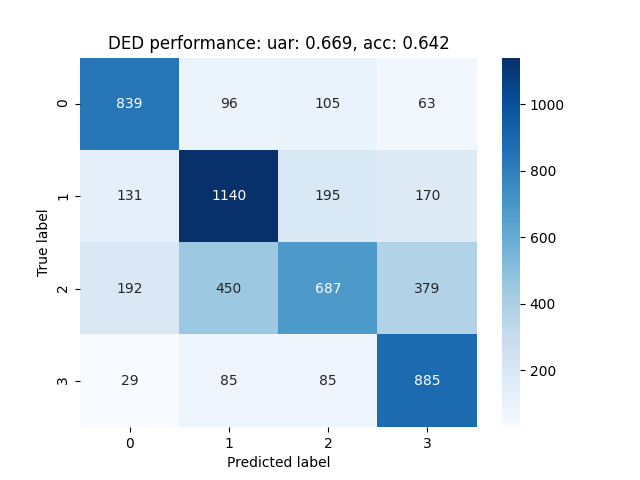
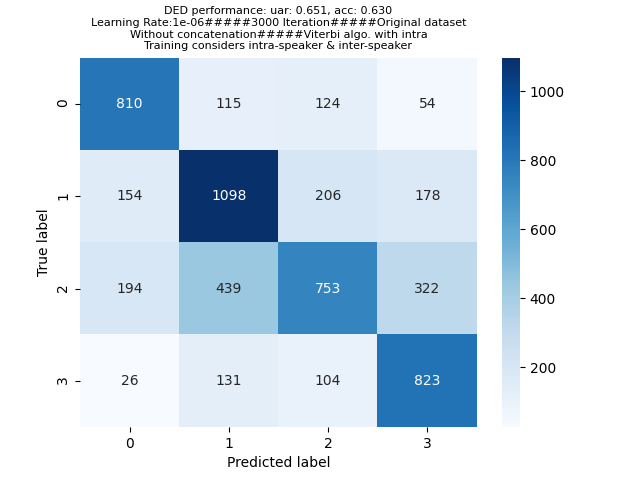
edit diagram title

diff --git a/CRF_train.py b/CRF_train.py
@@ -433,15 +433,15 @@ def test_acc(S1_Weight, S2_Weight, S3_Weight, S4_Weight, S5_Weight):
         elif Session_num == 'Ses05':
             W = S5_Weight
         
-        if concatenate_or_not == 1:
+        if args.concatenation == 1:
             concat_dialog = dialogs[dia] + dialogs[dia]
         else:
             concat_dialog = dialogs[dia]
         
         if args.inter_intra_test == 'inter':
-            predict += CRF_test.viterbi_inter(W, concat_dialog, no_speaker_info_emo_trans_prob_dict[Session_num], inter_emo_trans_prob_dict[Session_num], intra_emo_trans_prob_dict[Session_num], out_dict, concatenate_or_not, args.speaker_info_train)
+            predict += CRF_test.viterbi_inter(W, concat_dialog, no_speaker_info_emo_trans_prob_dict[Session_num], inter_emo_trans_prob_dict[Session_num], intra_emo_trans_prob_dict[Session_num], out_dict, args.concatenation, args.speaker_info_train)
         elif args.inter_intra_test == 'intra':
-            predict += CRF_test.viterbi_intra(W, concat_dialog, no_speaker_info_emo_trans_prob_dict[Session_num], intra_emo_trans_prob_dict[Session_num], out_dict, concatenate_or_not, args.speaker_info_train)
+            predict += CRF_test.viterbi_intra(W, concat_dialog, no_speaker_info_emo_trans_prob_dict[Session_num], intra_emo_trans_prob_dict[Session_num], out_dict, args.concatenation, args.speaker_info_train)
     
     uar, acc, conf = utils.evaluate(predict, label)
     print('DED performance: uar: %.3f, acc: %.3f' % (uar, acc))
@@ -489,7 +489,8 @@ def plot_dynamic_line_chart(uars, accs, Iter, iteration, uar ,acc):
         plt.legend(loc = 'upper left')
         plt.xlabel('Training Iteration')
         plt.ylabel('Probability')
-        plt.title('Learning Rate:' + str(learning_rate) + '\n' + str(iteration) + ' Iteration\n' + args.dataset + ' dataset')
+        
+        plt.title(diagram_title, fontsize=10)
     plt.pause(0.0001)
 
 if __name__ == "__main__":
@@ -503,10 +504,19 @@ if __name__ == "__main__":
     parser.add_argument("-s", "--speaker_info_train", type=int, help="When estimating emotion transition probabilities, do you want to consider speakers information?\n\t0:not consider speaker info\n\t1:consider intra-speaker only\n\t2:consider intra-speaker & inter-speaker", default = 2)
 
     args = parser.parse_args()
-
-    iteration = args.iteration
-    learning_rate = args.learning_rate
-    concatenate_or_not = args.concatenation
+    diagram_title = 'Learning Rate:' + str(args.learning_rate) + '#####' + str(args.iteration) + ' Iteration#####' + args.dataset + ' dataset\n'
+    if args.concatenation == 1:
+        diagram_title += 'With concatenation#####'
+    else:
+        diagram_title += 'Without concatenation#####'
+    diagram_title += 'Viterbi algo. with '
+    diagram_title += args.inter_intra_test
+    if args.speaker_info_train == 0:
+        diagram_title += '\nTraining does not consider speaker info'
+    elif args.speaker_info_train == 1:
+        diagram_title += '\nTraining considers intra-speaker only'
+    elif args.speaker_info_train == 2:
+        diagram_title += '\nTraining considers intra-speaker & inter-speaker'
 
     emo_mapping_dict1 = {'a':'ang', 'h':'hap', 'n':'neu', 's':'sad', 'S':'Start', 'd':'End', 'p':'pre-trained'}
     emo_mapping_dict2 = {'ang':'a', 'hap':'h', 'neu':'n', 'sad':'s', 'Start':'Start', 'End':'End', 'pre-trained':'p'}
@@ -606,17 +616,17 @@ if __name__ == "__main__":
 
     # object init
     if args.speaker_info_train == 0:
-        CRF_model_Ses01 = CRF_SGD(W.copy(), X['Ses01'], Y['Ses01'], no_speaker_info_emo_trans_prob_dict['Ses01'], {}, {}, out_dict, learning_rate)
-        CRF_model_Ses02 = CRF_SGD(W.copy(), X['Ses02'], Y['Ses02'], no_speaker_info_emo_trans_prob_dict['Ses02'], {}, {}, out_dict, learning_rate)
-        CRF_model_Ses03 = CRF_SGD(W.copy(), X['Ses03'], Y['Ses03'], no_speaker_info_emo_trans_prob_dict['Ses03'], {}, {}, out_dict, learning_rate)
-        CRF_model_Ses04 = CRF_SGD(W.copy(), X['Ses04'], Y['Ses04'], no_speaker_info_emo_trans_prob_dict['Ses04'], {}, {}, out_dict, learning_rate)
-        CRF_model_Ses05 = CRF_SGD(W.copy(), X['Ses05'], Y['Ses05'], no_speaker_info_emo_trans_prob_dict['Ses05'], {}, {}, out_dict, learning_rate)
+        CRF_model_Ses01 = CRF_SGD(W.copy(), X['Ses01'], Y['Ses01'], no_speaker_info_emo_trans_prob_dict['Ses01'], {}, {}, out_dict, args.learning_rate)
+        CRF_model_Ses02 = CRF_SGD(W.copy(), X['Ses02'], Y['Ses02'], no_speaker_info_emo_trans_prob_dict['Ses02'], {}, {}, out_dict, args.learning_rate)
+        CRF_model_Ses03 = CRF_SGD(W.copy(), X['Ses03'], Y['Ses03'], no_speaker_info_emo_trans_prob_dict['Ses03'], {}, {}, out_dict, args.learning_rate)
+        CRF_model_Ses04 = CRF_SGD(W.copy(), X['Ses04'], Y['Ses04'], no_speaker_info_emo_trans_prob_dict['Ses04'], {}, {}, out_dict, args.learning_rate)
+        CRF_model_Ses05 = CRF_SGD(W.copy(), X['Ses05'], Y['Ses05'], no_speaker_info_emo_trans_prob_dict['Ses05'], {}, {}, out_dict, args.learning_rate)
     else:
-        CRF_model_Ses01 = CRF_SGD(W.copy(), X['Ses01'], Y['Ses01'], {}, inter_emo_trans_prob_dict['Ses01'], intra_emo_trans_prob_dict['Ses01'], out_dict, learning_rate)
-        CRF_model_Ses02 = CRF_SGD(W.copy(), X['Ses02'], Y['Ses02'], {}, inter_emo_trans_prob_dict['Ses02'], intra_emo_trans_prob_dict['Ses02'], out_dict, learning_rate)
-        CRF_model_Ses03 = CRF_SGD(W.copy(), X['Ses03'], Y['Ses03'], {}, inter_emo_trans_prob_dict['Ses03'], intra_emo_trans_prob_dict['Ses03'], out_dict, learning_rate)
-        CRF_model_Ses04 = CRF_SGD(W.copy(), X['Ses04'], Y['Ses04'], {}, inter_emo_trans_prob_dict['Ses04'], intra_emo_trans_prob_dict['Ses04'], out_dict, learning_rate)
-        CRF_model_Ses05 = CRF_SGD(W.copy(), X['Ses05'], Y['Ses05'], {}, inter_emo_trans_prob_dict['Ses05'], intra_emo_trans_prob_dict['Ses05'], out_dict, learning_rate)
+        CRF_model_Ses01 = CRF_SGD(W.copy(), X['Ses01'], Y['Ses01'], {}, inter_emo_trans_prob_dict['Ses01'], intra_emo_trans_prob_dict['Ses01'], out_dict, args.learning_rate)
+        CRF_model_Ses02 = CRF_SGD(W.copy(), X['Ses02'], Y['Ses02'], {}, inter_emo_trans_prob_dict['Ses02'], intra_emo_trans_prob_dict['Ses02'], out_dict, args.learning_rate)
+        CRF_model_Ses03 = CRF_SGD(W.copy(), X['Ses03'], Y['Ses03'], {}, inter_emo_trans_prob_dict['Ses03'], intra_emo_trans_prob_dict['Ses03'], out_dict, args.learning_rate)
+        CRF_model_Ses04 = CRF_SGD(W.copy(), X['Ses04'], Y['Ses04'], {}, inter_emo_trans_prob_dict['Ses04'], intra_emo_trans_prob_dict['Ses04'], out_dict, args.learning_rate)
+        CRF_model_Ses05 = CRF_SGD(W.copy(), X['Ses05'], Y['Ses05'], {}, inter_emo_trans_prob_dict['Ses05'], intra_emo_trans_prob_dict['Ses05'], out_dict, args.learning_rate)
 
     emo_dict_label = joblib.load('./data/emo_all_iemocap.pkl')
     label = []
@@ -625,7 +635,7 @@ if __name__ == "__main__":
 
     plt.figure()
     ann_list = []
-    plt.axis([0, iteration, 0.5, 0.8])
+    plt.axis([0, args.iteration, 0.5, 0.8])
     
     iters = [0, 0]
     uars = [0.5, 0.5]
@@ -633,8 +643,8 @@ if __name__ == "__main__":
     uars_arr = np.zeros(shape=(1,0))
     accs_arr = np.zeros(shape=(1,0))
 
-    for Iter in range(1, iteration+1, 1):
-        print('training iteration : '+str(Iter)+'/'+str(iteration))
+    for Iter in range(1, 10, 1):
+        print('training iteration : '+str(Iter)+'/'+str(args.iteration))
         CRF_model_Ses01.update()
         CRF_model_Ses02.update()
         CRF_model_Ses03.update()
@@ -643,7 +653,7 @@ if __name__ == "__main__":
         uar, acc, conf = test_acc(CRF_model_Ses01.W, CRF_model_Ses02.W, CRF_model_Ses03.W, CRF_model_Ses04.W, CRF_model_Ses05.W)
         uar = round(uar, 3)
         acc = round(acc, 3)
-        plot_dynamic_line_chart(uars, accs, Iter, iteration, uar, acc)
+        plot_dynamic_line_chart(uars, accs, Iter, args.iteration, uar, acc)
         print('==========================================')
     plt.savefig('result/uar&acc.png')
 
@@ -651,7 +661,7 @@ if __name__ == "__main__":
     sn.heatmap(conf, annot=True, fmt='d', cmap='Blues')
     plt.ylabel('True label')
     plt.xlabel('Predicted label')
-    plt.title('DED performance: uar: %.3f, acc: %.3f' % (uar, acc))
+    plt.title('DED performance: uar: %.3f, acc: %.3f\n%s' % (uar, acc, diagram_title), fontsize=8)
     plt.savefig('result/confusion_matrix.png')
     plt.show()
 
@@ -683,9 +693,9 @@ if __name__ == "__main__":
         print('Without concatenation')
     print('Viterbi algo. with', args.inter_intra_test)
     if args.speaker_info_train == 0:
-        print('not consider speaker info')
+        print('Training does not consider speaker info')
     elif args.speaker_info_train == 1:
-        print('consider intra-speaker only')
+        print('Training considers intra-speaker only')
     elif args.speaker_info_train == 2:
-        print('consider intra-speaker & inter-speaker')
+        print('Training considers intra-speaker & inter-speaker')
     print("====================args====================")
